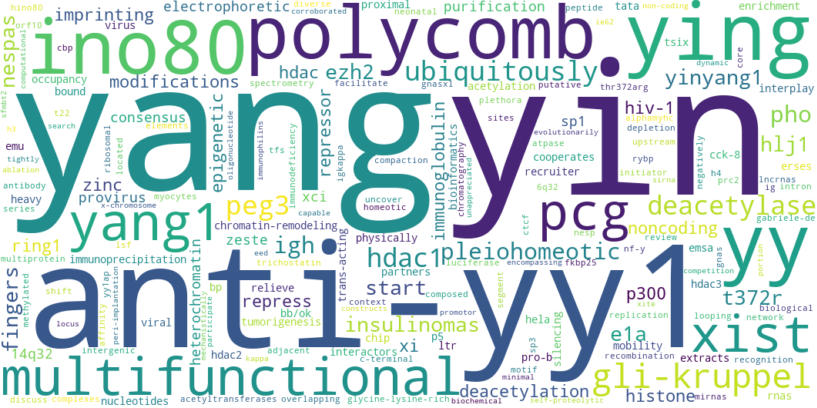
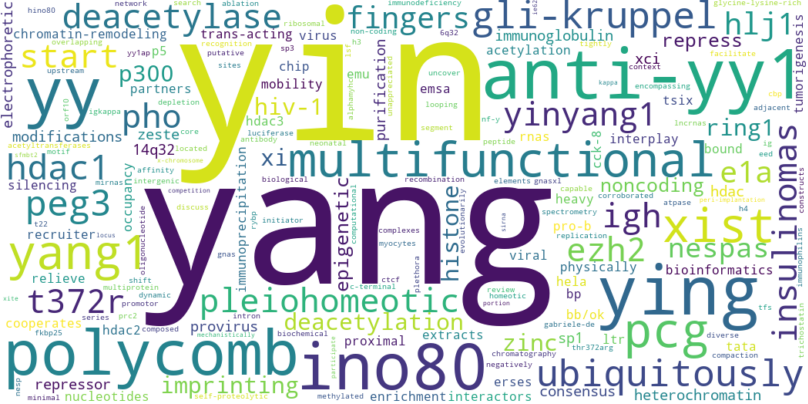
updated figs

diff --git a/utils/words2cloud.py b/utils/words2cloud.py
@@ -88,17 +88,17 @@ def __get_word_cloud(words, weights, output_file, numwords):
     frequencies = {}
 
     # Make word cloud
-    fig = plt.figure(figsize=(3.54, 3.54/2))
+    fig = plt.figure(figsize=(3.5, 3.5/2), dpi=300)
     ax = fig.add_subplot()
     for word, weight in zip(words, weights):
         frequencies.setdefault(word, 0.)
         frequencies[word] += weight
-    wc = WordCloud(width=1062, height=531, background_color="white",
+    wc = WordCloud(width=1050, height=525, background_color="white",
         max_words=numwords)
     wc.generate_from_frequencies(frequencies)
     ax.imshow(wc, interpolation="bilinear")
     ax.axis("off")
-    fig.savefig(output_file, bbox_inches="tight", pad_inches=0, dpi=300)
+    fig.savefig(output_file, bbox_inches="tight", pad_inches=0)
 
 if __name__ == "__main__":
     cli()
